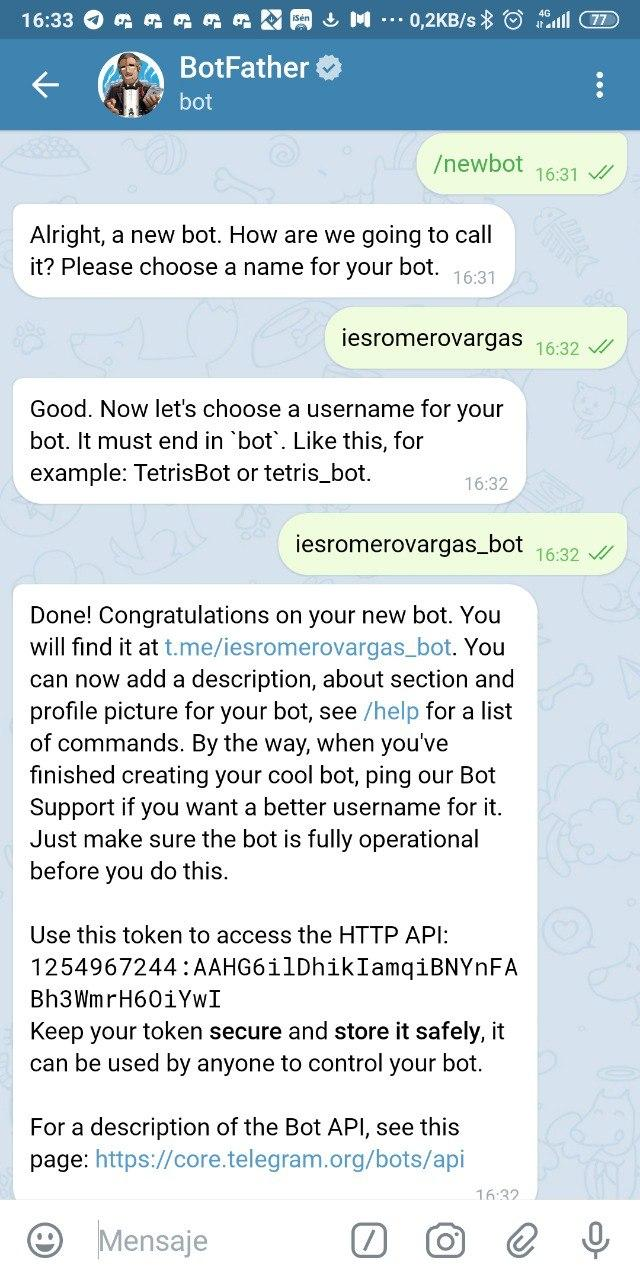
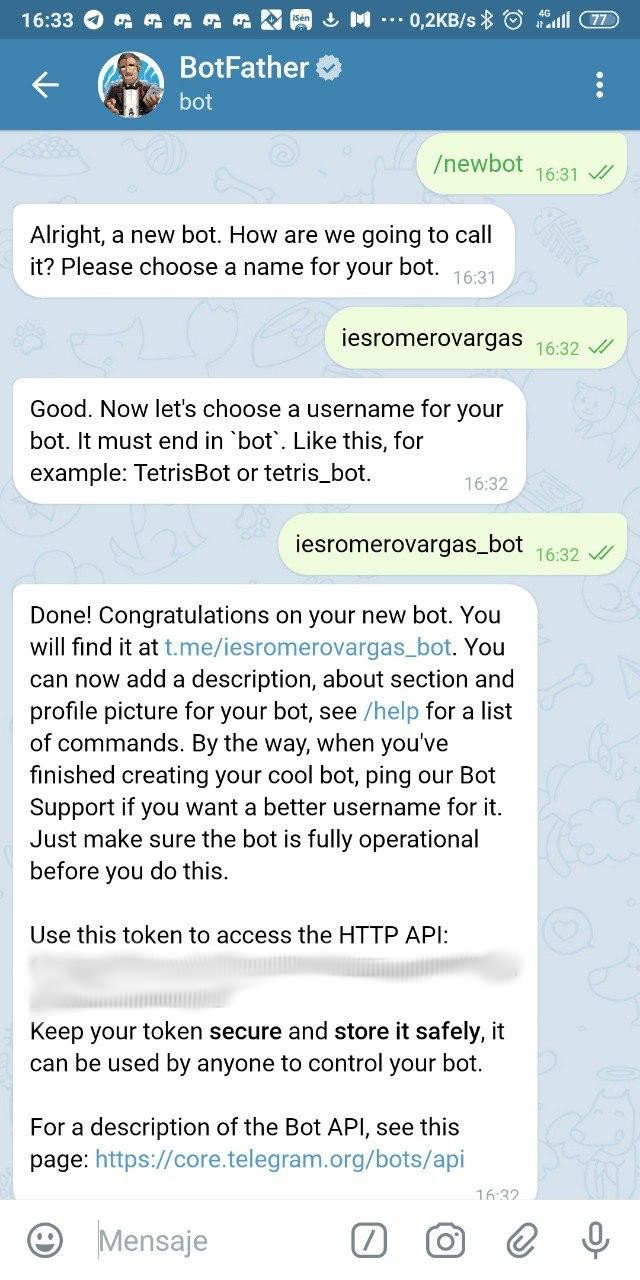
Arregla gráficos de bots de telegram en python

Changed region(s): [[0.0312, 0.75, 0.8125, 0.8125]]

diff --git a/docs/bots_de_telegram_en_python.md b/docs/bots_de_telegram_en_python.md
@@ -8,9 +8,9 @@ Es un programa capaz de **engancharse** a una conversación de un sistema de men
 
 Uno de estos modos consiste en tener una serie de comandos que desencadenen **acciones preprogramadas**, cuando el usuario lanza uno de estos comandos, el bot hace algo concreto. Los comandos, en el caso de los bots de Telegram, siempre empiezan por un carácter “/”
 
-![img](./img_bots_de_telegram_en_python/1*dyJOl5__7nQSrqkeLk8IVg.png)
+![img](./img_bots_de_telegram_en_python/1.jpg)
 
-**BotFather** es un ejemplo claro del uso de comandos que comienzan con “/”
+![img](./img_bots_de_telegram_en_python/2.jpg)
 
 Por ejemplo, si un nuevo bot entiende un comando `/list_languages`, cuando un usuario de una conversación en la que está presente escribe `/list_languages`, el bot devuelve una lista con nombres de lenguajes de programación. Lo que ocurrirá es que se tendrá un nuevo mensaje en la conversación, enviado por el bot, en respuesta al comando.
 
@@ -18,7 +18,7 @@ Por ejemplo, si un nuevo bot entiende un comando `/list_languages`, cuando un us
 
 Otro modo de actuar totalmente distinto es el de los ***bots inline***. Los bots inline esperan que el resto de miembros de la conversación empiecen un nuevo mensaje haciendo mención a su nombre precedido del carácter `@`. Se han desarrollado múltiples bots inline muy interesantes, por ejemplo, `@gif` que espera que se le pase un texto y devuelve gifs relacionados con el mismo.
 
-![img](/home/pater/Dropbox/Apuntes/python/intermezzo/docs/img_bots_de_telegram_en_python/1*0znCu6PMuSe0jOXNYBLRmg.png)
+![img](./img_bots_de_telegram_en_python/interstellar.jpg)
 
 Si se escribe `@gif` en cualquier conversación de Telegram se puede buscar gif’s animados de una manera muy simple. Es un ejemplo de bot inline.
 
@@ -32,9 +32,9 @@ El que nos ocupa es `/newbot`, que pedirá que se introduzca un nombre para el  
 
 
 
-![img](./img_bots_de_telegram_en_python/1*ROGRQXKBgYTSao3xrK3g3A.png)
+![](./img_bots_de_telegram_en_python/3.jpg)
 
-Los dos datos pueden parecer lo mismo pero no lo son. El nombre aparecerá en la información de contacto del bot sin embargo, el nombre de usuario (*username*) debe terminar siempre en `bot` y será el identificador que se utilizará cuando se haga mención al bot en una ventana de chat, en nuestro caso sería `@AchicaynaBot`. De hecho, una manera de abrir una conversación con este bot es, simplemente, dirigirte a la url `http://t.me/<UsernameDelBot>`, en nuestro caso `http://t.me/AchicaynaBot`
+Los dos datos pueden parecer lo mismo pero no lo son. El nombre aparecerá en la información de contacto del bot sin embargo, el nombre de usuario (*username*) debe terminar siempre en `bot` y será el identificador que se utilizará cuando se haga mención al bot en una ventana de chat, en nuestro caso sería `@iesromerovargas`. De hecho, una manera de abrir una conversación con este bot es, simplemente, dirigirte a la url `http://t.me/<UsernameDelBot>`, en nuestro caso `http://t.me/iesromerovargas_bot`
 
 Una vez ejecutado, la respuesta remota a la solicitud tendrá forma de mensaje y dentro de éste se encontrará un texto algo así como:
 
@@ -43,7 +43,7 @@ Use this token to access the HTTP API:
 110201543:AAHdqTcvCH1vGWJxfSeofSAs0K5PALDsaw
 ```
 
-Esta ristra de números y letras es el identificador del bot, al que todo el mundo refiere como token y **se debería cuidar**. Cualquiera que utilice ese token será, a efectos de la API de Telegram, tu bot. Esto tendrá sentido en un momento -por cierto, ese token no es válido, ;-).
+Esta ristra de números y letras es el identificador del bot, al que todo el mundo refiere como token y **se debería cuidar**. Cualquiera que utilice ese token será, a efectos de la API de Telegram, nuestro bot. Esto tendrá sentido en un momento -por cierto, ese token no es válido, ;-).
 
 Lo siguiente que se debe hacer es lanzar en la conversación con `@BotFather` el comando `/setdescription`; con él se podrá introducir un texto breve que sirva para presentar en sociedad al bot. Cada vez que alguien abra una conversación con él, verá esta descripción.
 
@@ -67,25 +67,23 @@ Para instalarla no hay más que ejecutar:
 pipenv install python-telegram-bot
 ```
 
-Del mismo modo, también he creado un repositorio en gitlab para este proyecto. Si te sientes perdido o no entiendes algo, ahí tendrás disponible todo el proceso de desarrollo. La dirección del repositorio es: https://gitlab.com/goyoregalado/achicaynabot
+Del mismo modo, también tenemos creado un repositorio en github para este proyecto. Si te sientes perdido o no entiendes algo, ahí está disponible todo el proceso de desarrollo. La dirección del repositorio es: https://gitlab.com/goyoregalado/achicaynabot
 
 Cada paso formará parte de una nueva rama del repositorio así se puede hacer un seguimiento secuencial del mismo y volver atrás cuando sea necesario.
 
 La estructura del proyecto es muy simple:
 
+![img](./img_bots_de_telegram_en_python/03.png)
 
+En este primer momento, todo el código que hará que el bot cobre vida estará en el archivo `bot.py`. La mayoría de ejemplos siguen esta misma estructura, sin embargo, vamos a añadir un paquete de Python mínimo dentro del directorio *config* que permita aislar el token de autenticación del repositorio. De esta manera, solamente se tendrá que añadir un archivo denominado `auth.py` tal y como se muestra en la imagen e incluir dentro de él el token del bot como se puede ver a continuación.
 
-![img](./img_bots_de_telegram_en_python/1*OBkc37TZzB3U7VuA_veg3A.png)
-
-En este primer momento, todo el código que hará que nuestro bot cobre vida estará en el archivo `bot.py`. La mayoría de ejemplos siguen esta misma estructura, sin embargo, vamos a añadir un paquete de Python mínimo dentro del directorio *config* que permita aislar el token de autenticación del repositorio. De esta manera, solamente se tendrá que añadir un archivo denominado `auth.py` tal y como se muestra en la imagen e incluir dentro de él el token del bot como se puede ver a continuación.
-
-![img](./img_bots_de_telegram_en_python/1*sXuh5dhcaabrtxr_s_ucUA.png)
+![img](./img_bots_de_telegram_en_python/01.png)
 
 Este valor debe ser el token que ofreció “@BotFather” cuando se solicitó la creación del bot. Supóngase que el Token que se devolvió fue este: `110201543:AAHdqTcvCH1vGWJxfSeofSAs0K5PALDsaw`
 
 Como última precaución, se ditará el fichero `.gitignore` para que no se pueda almacenar por error los datos de autenticación en el repositorio.
 
-![img](./img_bots_de_telegram_en_python/1*No8BCy8D2SuJpY4tccx8LQ.png)
+![img](./img_bots_de_telegram_en_python/02.png)
 
 Vamos a empezar con un código mínimo que nos permita interactuar con el bot. Dentro del fichero `bot.py` se encontrará lo siguiente:
 
@@ -147,14 +145,14 @@ Por último, se almacena en la variable `logger` una instancia del objeto `logge
 De manera que, si se quisiere enviar un mensaje al usuario para informarle de que está ocurriendo algo se haría uso de alguno de los siguientes métodos.
 
 ```python
-logger.debug(‘Este mensaje es sólo para frikis programadores como nosotros’)
-logger.info(‘Este mensaje representa algo normal’)
-logger.warning(‘Esto ya no es tan normal’)
-logger.error(‘Deberías empezar a preocuparte’)
-logger.critical(‘El bot está así X(’)
+logger.debug('Este mensaje es sólo para frikis programadores como nosotros')
+logger.info('Este mensaje representa algo normal')
+logger.warning('Esto ya no es tan normal')
+logger.error('Deberías empezar a preocuparte')
+logger.critical('El bot está así X(')
 ```
 
-En primer lugar, vamos a hacer que pueda responder a su primer comando. Este comando será `/start` y como respuesta enviará un mensaje al chat en el que diga: *“Soy un Achicayna, que, entre los primeros pobladores de Canarias, era el equivalente a un plebeyo”*.
+En primer lugar, vamos a hacer que pueda responder a su primer comando. Este comando será `/start` y como respuesta enviará un mensaje al chat en el que diga: *“Soy de Jerez de la Frontera, cuna del fino, de los caballos cartujanos y Capital Mundial del Motociclismo”*.
 
 Habrá que hablar de nuevo con `@BotFather` e indicarle que se quiere configurar el bot. Para ello se le envía el comando `/mybots`, que listará todos los bots que se han creado hasta la fecha.
 
@@ -272,3 +270,4 @@ Nuestra primera breve conversación con Achicayna
 En la próxima entrega vamos a hacer que Achicayna no sólo reaccione a comandos sino que esté pendiente de lo que se escribe en las ventanas de chat en las que participe.
 
 [Fuente](https://medium.com/@goyoregalado/bots-de-telegram-en-python-134b964fcdf7)
+
